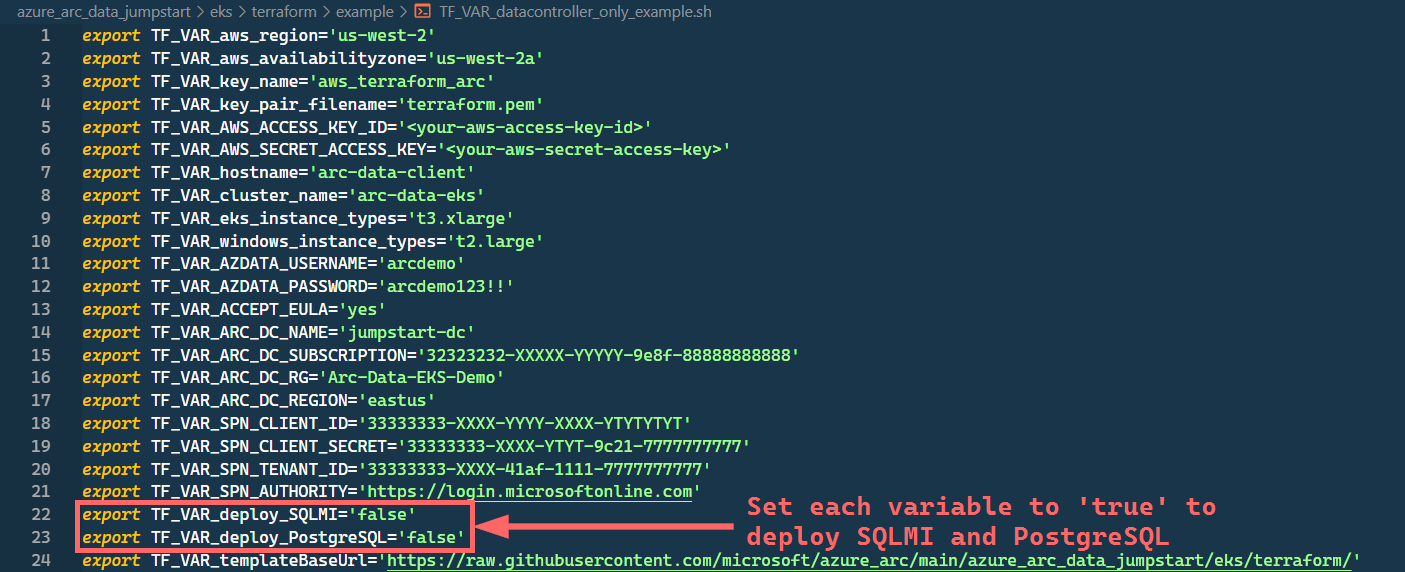
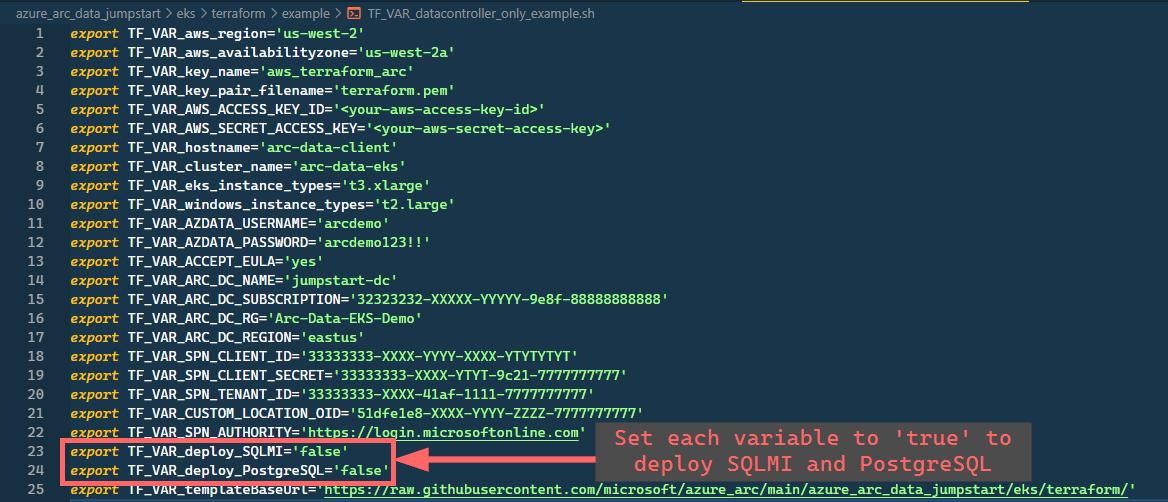
Updated docs for EKS to include OID as pre-deployment variable

Changed region(s): [[0.0, 0.0, 1.0, 1.0]]

diff --git a/docs/azure_arc_jumpstart/azure_arc_data/eks/eks_mssql_mi_terraform/_index.md b/docs/azure_arc_jumpstart/azure_arc_data/eks/eks_mssql_mi_terraform/_index.md
@@ -77,6 +77,17 @@ By the end of this guide, you will have an EKS cluster deployed with an Azure Ar
 
   > **Note: The Jumpstart scenarios are designed with as much ease of use in-mind and adhering to security-related best practices whenever possible. It is optional but highly recommended to scope the service principal to a specific [Azure subscription and resource group](https://docs.microsoft.com/en-us/cli/azure/ad/sp?view=azure-cli-latest) as well considering using a [less privileged service principal account](https://docs.microsoft.com/en-us/azure/role-based-access-control/best-practices)**
 
+* Follow the steps [here](https://docs.microsoft.com/en-us/azure/azure-arc/kubernetes/custom-locations#enable-custom-locations-on-cluster) or run the command below to retrieve your AAD Tenant Specific ObjectID for the "Custom Locations RP" Enterprise Application needed to onboard Custom Locations on EKS:
+  
+  ```shell
+  # Note that the APPLICATION ID: bc313c14-388c-4e7d-a58e-70017303ee3b is constant across all tenants
+  az ad sp show --id 'bc313c14-388c-4e7d-a58e-70017303ee3b' --query objectId -o tsv
+
+  # 51dfe1e8-70c6-4de5-a08e-e18aff23d815 <-- This is the OBJECT ID specific to Microsoft's AAD Tenant
+  # ^This output will be different for your tenant - use this
+
+  ```
+
 ## Create a new AWS IAM Role & Key
 
 Create AWS User IAM Key. An access key grants programmatic access to your resources which we will be using later on in this guide.
@@ -188,6 +199,7 @@ As mentioned, the Terraform plan will deploy an EKS cluster, the Azure Arc Data 
   * *export TF_VAR_SPN_CLIENT_ID*='Your Azure service principal name'
   * *export TF_VAR_SPN_CLIENT_SECRET*='Your Azure service principal password'
   * *export TF_VAR_SPN_TENANT_ID*='Your Azure tenant ID'
+  * *export TF_VAR_CUSTOM_LOCATION_OID*='Your AAD tenant specific Custom Locations RP Object ID'
   * *export TF_VAR_SPN_AUTHORITY*=*https://login.microsoftonline.com* **Do not change**
   * *export TF_VAR_deploy_SQLMI*=*'Boolean that sets whether or not to deploy SQL Managed Instance, for this scenario we set to true’
   * *export TF_VAR_deploy_PostgreSQL*=*'Boolean that sets whether or not to deploy PostgreSQL Hyperscale, for this scenario we set to false'

diff --git a/docs/azure_arc_jumpstart/azure_arc_data/eks/eks_postgres_hs_terraform/_index.md b/docs/azure_arc_jumpstart/azure_arc_data/eks/eks_postgres_hs_terraform/_index.md
@@ -77,6 +77,17 @@ By the end of this guide, you will have an EKS cluster deployed with an Azure Ar
 
   > **Note: The Jumpstart scenarios are designed with as much ease of use in-mind and adhering to security-related best practices whenever possible. It is optional but highly recommended to scope the service principal to a specific [Azure subscription and resource group](https://docs.microsoft.com/en-us/cli/azure/ad/sp?view=azure-cli-latest) as well considering using a [less privileged service principal account](https://docs.microsoft.com/en-us/azure/role-based-access-control/best-practices)**
 
+* Follow the steps [here](https://docs.microsoft.com/en-us/azure/azure-arc/kubernetes/custom-locations#enable-custom-locations-on-cluster) or run the command below to retrieve your AAD Tenant Specific ObjectID for the "Custom Locations RP" Enterprise Application needed to onboard Custom Locations on EKS:
+  
+  ```shell
+  # Note that the APPLICATION ID: bc313c14-388c-4e7d-a58e-70017303ee3b is constant across all tenants
+  az ad sp show --id 'bc313c14-388c-4e7d-a58e-70017303ee3b' --query objectId -o tsv
+
+  # 51dfe1e8-70c6-4de5-a08e-e18aff23d815 <-- This is the OBJECT ID specific to Microsoft's AAD Tenant
+  # ^This output will be different for your tenant - use this
+
+  ```
+
 ## Create a new AWS IAM Role & Key
 
 Create AWS User IAM Key. An access key grants programmatic access to your resources which we will be using later on in this guide.
@@ -188,6 +199,7 @@ As mentioned, the Terraform plan will deploy an EKS cluster, the Azure Arc Data 
   * *export TF_VAR_SPN_CLIENT_ID*='Your Azure service principal name'
   * *export TF_VAR_SPN_CLIENT_SECRET*='Your Azure service principal password'
   * *export TF_VAR_SPN_TENANT_ID*='Your Azure tenant ID'
+  * *export TF_VAR_CUSTOM_LOCATION_OID*='Your AAD tenant specific Custom Locations RP Object ID'
   * *export TF_VAR_SPN_AUTHORITY*=*https://login.microsoftonline.com* **Do not change**
   * *export TF_VAR_deploy_SQLMI*=*'Boolean that sets whether or not to deploy SQL Managed Instance, for this scenario we set to false’
   * *export TF_VAR_deploy_PostgreSQL*=*'Boolean that sets whether or not to deploy PostgreSQL Hyperscale, for this scenario we set to true'
